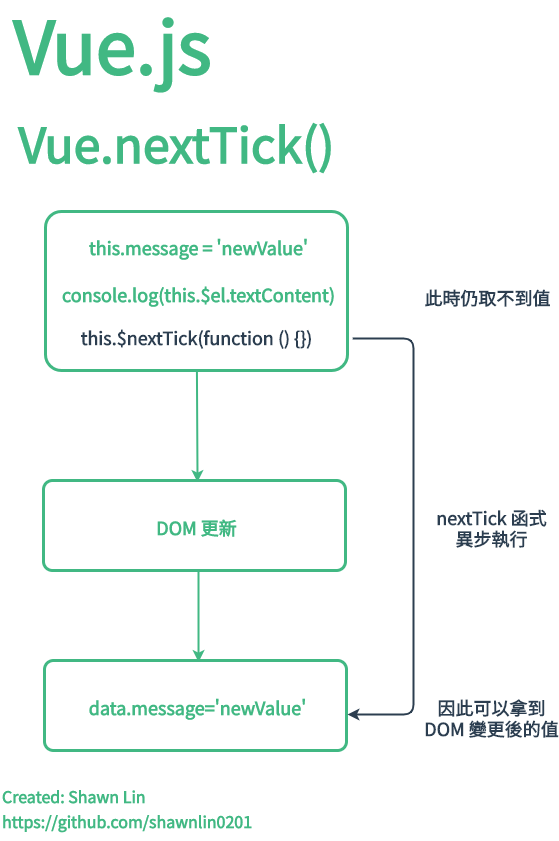
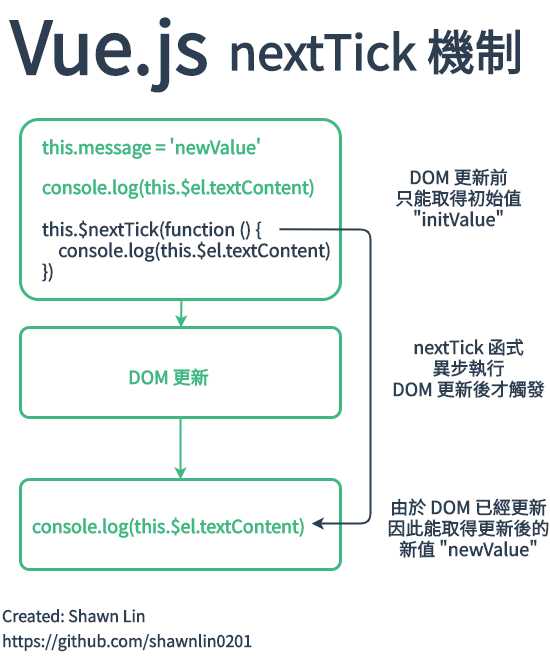
vue.js nextTick done

Changed region(s): [[0.0, 0.0, 1.0, 1.0], [0.7109, 0.2424, 0.9891, 0.3636]]

diff --git a/source/_drafts/done/Vue-016-nextTick.md b/source/_drafts/done/Vue-016-nextTick.md
@@ -1,0 +1,95 @@
+---
+title: Vue.js nextTick 原理與應用
+date: 2020-02-05 17:57:40
+tags:
+- [前端]
+- [JavaScript]
+- [Vue.js]
+categories: 
+- [JavaScript, Vue.js]
+---
+
+<div style="display:flex;justify-content:center;">
+  <img style="object-fit:cover;" alt="vue-logo" src='/images/vue-logo.png' width='200px' height='200px' />
+</div>
+
+在現代網頁開發時，使用 Vue.js 等現代框架時，由於框架會採用 **Virtual DOM** 來進行 DOM 相關的處理，避免一些直接控制 DOM 等昂貴的操作，連帶我們使用時也應盡量避免進行 DOM 的操作，以防與 Vue.js 實體本身的方法衝突。而各框架在進行 DOM 更新時實作方法也略有不同，Vue.js 雖然是透過偵測數據資料的變更來對 DOM 進行更新，但其實並不是**立即進行**的。
+
+<!--more-->
+
+根據 [Vue.js 文件](https://cn.vuejs.org/v2/guide/reactivity.html#%E5%BC%82%E6%AD%A5%E6%9B%B4%E6%96%B0%E9%98%9F%E5%88%97) 說明，有關於 DOM 的更新是採用**異步（asynchronously）**的策略，對於資料更新的部分會另外開啟一個隊列（queue）與緩衝器（buffer）來處理，而透過這樣的機制，即便我們透過 watch 這一類的 Hook 觸發了多次的更新，但也僅會推入隊列一次，並且最終在下一次事件循環（tick）後更新。
+
+而便是這樣事件循環的機制，導致嘗試在實體中取得 DOM 上的值會取到未更新前的初始值：
+
+```html
+<template>
+  <div id="example">{{ message }}</div>
+</template>
+```
+
+```js
+export default {
+  name: 'some-component',
+  data () {
+    return {
+      message = 'initValue'
+    }
+  },
+  mounted () {
+    this.message = 'newValue'
+    console.log(this.$el.textContent === 'newValue') // false
+    console.log(this.$el.textContent === 'initValue') // true
+  }
+}
+```
+
+透過上面 **.vue file** 範例結果可以看到，我們在這時取得 DOM 的資料仍是初始化前的資料，如果我們想要取得更新後的 DOM 數值時該怎麼做呢？
+
+# nextTick
+Vue.js 提供了一個回呼函式（callback function）**Vue.nextTick(callback)** 以供我們使用，由於 `nextTick` 方法是異步執行的，因此透過 callback function 我們能夠取得更新 DOM 後的數值：
+
+```js
+export default {
+  name: 'some-component',
+  data () {
+    return {
+      message = 'initValue'
+    }
+  },
+  mounted () {
+    this.message = 'newValue'
+    console.log(this.$el.textContent === 'newValue') // false, should be 'initValue'
+    this.$nextTick(function () {
+      console.log(this.$el.textContent === 'newValue') // true
+    })
+  }
+}
+```
+
+而關於事件循環中 `nextTick` 的機制如下：
+
+![](/images/vue.js/vue-nextTick.png)
+
+當我們在 `mounted` Hook 中給予 Vue 實體的 `message` 一個值後，DOM 並不會馬上做更新，在該事件循環中只能取得未更新前的資料。
+
+而當程式碼依序執行的過程中，會將異步方法 `nextTick` 放入序列中，並且依序使用 `promise`、`MessageChannel ` 等等方法來執行，如果宿主環境（瀏覽器）都不支援的話就會採用 `setTimeout` 的方法來執行，等待所有程式碼都執行完畢，才更新 DOM。
+
+更新完 DOM 後，由於這時主執行序（main thread）已經沒有事情了，接著剛剛採用異步策略的方法才會開始依序執行，而這時我們透過 `nextTick` 中的 callback function 便能夠取得 DOM 更新後的數值。
+
+# 應用
+而 `nextTick` 最大的使用時機就是在於當我們更新實體中的資料時，想要取得在資料驅動視覺下更新 DOM 後的數值。
+
+```js
+mounted () {
+  this.$nextTick(function () {
+    // 處理 DOM 更新後的一些操作
+  })
+}
+```
+
+透過這個方法可以稍微彌補 `mounted` Hook 對於 DOM 渲染不完全的一個缺點。
+
+# 資源參考
+
+- [Virtual DOM 概述](https://cythilya.github.io/2017/03/31/virtual-dom/)
+- [Vue.nextTick 的原理和用途](https://segmentfault.com/a/1190000012861862)
